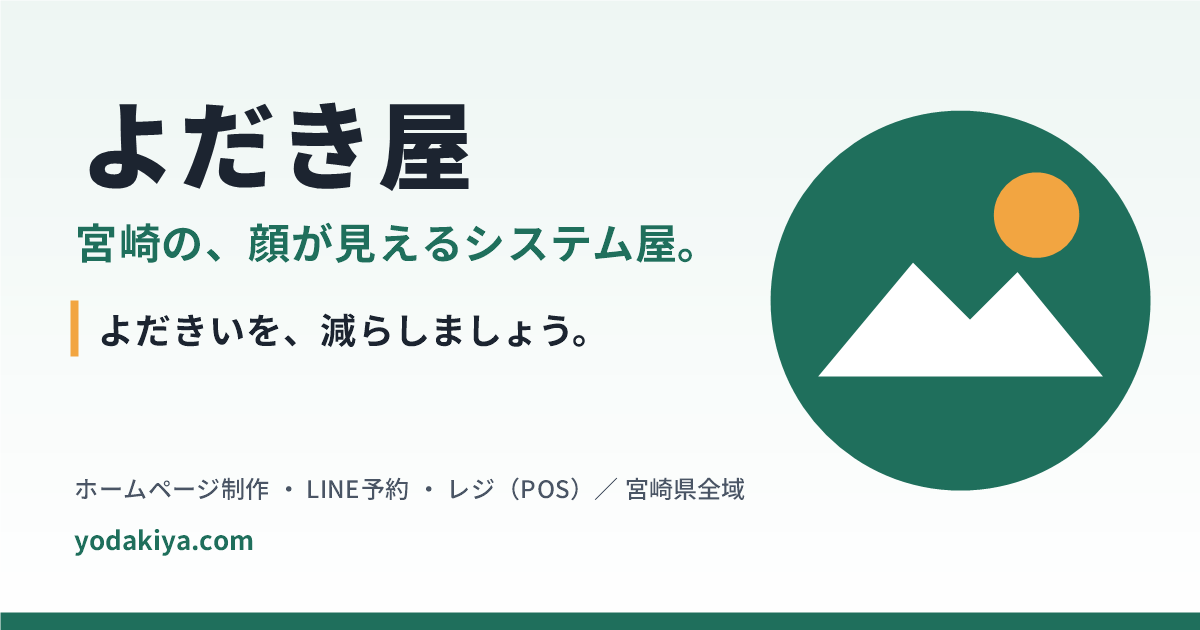
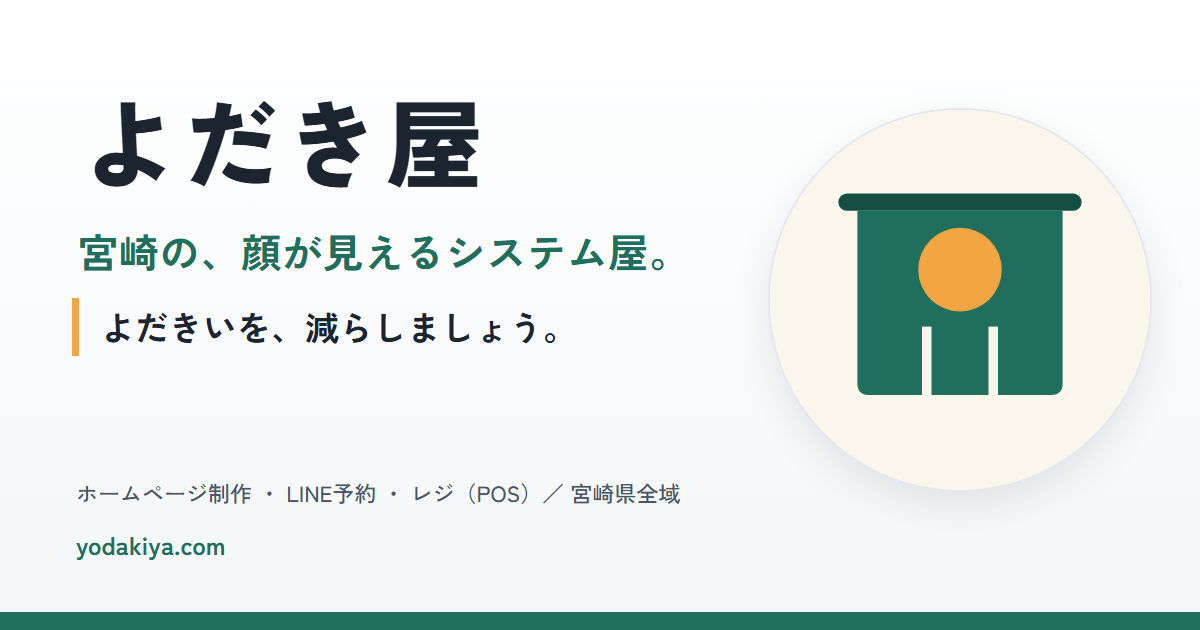
ロゴを「のれんと太陽」に変えた
ヘッダー・フッターのマーク、ファビコン、apple-touch-icon、OGP画像を新しいロゴに差し替えた。
サービスページは tools/build-pages.cjs で再生成。

diff --git a/public/homepage/index.html b/public/homepage/index.html
@@ -31,9 +31,11 @@
   <div class="wrap nav">
     <a class="logo" href="/" aria-label="よだき屋 ホーム">
       <svg class="logo-mark" viewBox="0 0 40 40" aria-hidden="true">
-        <circle cx="20" cy="20" r="19" fill="#1f6f5c"/>
-        <path d="M6 27 L15 16 L21 22 L26 17 L34 27 Z" fill="#fff" opacity=".95"/>
-        <circle cx="28" cy="11" r="4" fill="#f2a541"/>
+        <circle cx="20" cy="20" r="20" fill="#fbf6ec"/>
+        <rect x="7.2" y="8.8" width="25.6" height="1.8" rx=".9" fill="#154f42"/>
+        <path d="M9.2 10.6H30.8V28.8Q30.8 30 29.6 30H10.4Q9.2 30 9.2 28.8Z" fill="#1f6f5c"/>
+        <rect x="16" y="22.8" width="1" height="7.4" fill="#fbf6ec"/><rect x="23" y="22.8" width="1" height="7.4" fill="#fbf6ec"/>
+        <circle cx="20" cy="16.8" r="4.4" fill="#f2a541"/>
       </svg>
       <span class="logo-text">よだき屋</span>
     </a>
@@ -138,9 +140,11 @@
     <div class="foot">
       <a class="logo" href="/">
         <svg class="logo-mark" viewBox="0 0 40 40" aria-hidden="true">
-          <circle cx="20" cy="20" r="19" fill="#1f6f5c"/>
-          <path d="M6 27 L15 16 L21 22 L26 17 L34 27 Z" fill="#fff" opacity=".95"/>
-          <circle cx="28" cy="11" r="4" fill="#f2a541"/>
+          <circle cx="20" cy="20" r="20" fill="#fbf6ec"/>
+          <rect x="7.2" y="8.8" width="25.6" height="1.8" rx=".9" fill="#154f42"/>
+          <path d="M9.2 10.6H30.8V28.8Q30.8 30 29.6 30H10.4Q9.2 30 9.2 28.8Z" fill="#1f6f5c"/>
+          <rect x="16" y="22.8" width="1" height="7.4" fill="#fbf6ec"/><rect x="23" y="22.8" width="1" height="7.4" fill="#fbf6ec"/>
+          <circle cx="20" cy="16.8" r="4.4" fill="#f2a541"/>
         </svg>
         <span class="logo-text">よだき屋</span>
       </a>

diff --git a/public/index.html b/public/index.html
@@ -32,9 +32,11 @@
   <div class="wrap nav">
     <a class="logo" href="/" aria-label="よだき屋 ホーム">
       <svg class="logo-mark" viewBox="0 0 40 40" aria-hidden="true">
-        <circle cx="20" cy="20" r="19" fill="#1f6f5c"/>
-        <path d="M6 27 L15 16 L21 22 L26 17 L34 27 Z" fill="#fff" opacity=".95"/>
-        <circle cx="28" cy="11" r="4" fill="#f2a541"/>
+        <circle cx="20" cy="20" r="20" fill="#fbf6ec"/>
+        <rect x="7.2" y="8.8" width="25.6" height="1.8" rx=".9" fill="#154f42"/>
+        <path d="M9.2 10.6H30.8V28.8Q30.8 30 29.6 30H10.4Q9.2 30 9.2 28.8Z" fill="#1f6f5c"/>
+        <rect x="16" y="22.8" width="1" height="7.4" fill="#fbf6ec"/><rect x="23" y="22.8" width="1" height="7.4" fill="#fbf6ec"/>
+        <circle cx="20" cy="16.8" r="4.4" fill="#f2a541"/>
       </svg>
       <span class="logo-text">よだき屋</span>
     </a>
@@ -300,9 +302,11 @@
     <div class="foot">
       <a class="logo" href="/">
         <svg class="logo-mark" viewBox="0 0 40 40" aria-hidden="true">
-          <circle cx="20" cy="20" r="19" fill="#1f6f5c"/>
-          <path d="M6 27 L15 16 L21 22 L26 17 L34 27 Z" fill="#fff" opacity=".95"/>
-          <circle cx="28" cy="11" r="4" fill="#f2a541"/>
+          <circle cx="20" cy="20" r="20" fill="#fbf6ec"/>
+          <rect x="7.2" y="8.8" width="25.6" height="1.8" rx=".9" fill="#154f42"/>
+          <path d="M9.2 10.6H30.8V28.8Q30.8 30 29.6 30H10.4Q9.2 30 9.2 28.8Z" fill="#1f6f5c"/>
+          <rect x="16" y="22.8" width="1" height="7.4" fill="#fbf6ec"/><rect x="23" y="22.8" width="1" height="7.4" fill="#fbf6ec"/>
+          <circle cx="20" cy="16.8" r="4.4" fill="#f2a541"/>
         </svg>
         <span class="logo-text">よだき屋</span>
       </a>

diff --git a/public/line-yoyaku/index.html b/public/line-yoyaku/index.html
@@ -31,9 +31,11 @@
   <div class="wrap nav">
     <a class="logo" href="/" aria-label="よだき屋 ホーム">
       <svg class="logo-mark" viewBox="0 0 40 40" aria-hidden="true">
-        <circle cx="20" cy="20" r="19" fill="#1f6f5c"/>
-        <path d="M6 27 L15 16 L21 22 L26 17 L34 27 Z" fill="#fff" opacity=".95"/>
-        <circle cx="28" cy="11" r="4" fill="#f2a541"/>
+        <circle cx="20" cy="20" r="20" fill="#fbf6ec"/>
+        <rect x="7.2" y="8.8" width="25.6" height="1.8" rx=".9" fill="#154f42"/>
+        <path d="M9.2 10.6H30.8V28.8Q30.8 30 29.6 30H10.4Q9.2 30 9.2 28.8Z" fill="#1f6f5c"/>
+        <rect x="16" y="22.8" width="1" height="7.4" fill="#fbf6ec"/><rect x="23" y="22.8" width="1" height="7.4" fill="#fbf6ec"/>
+        <circle cx="20" cy="16.8" r="4.4" fill="#f2a541"/>
       </svg>
       <span class="logo-text">よだき屋</span>
     </a>
@@ -122,9 +124,11 @@
     <div class="foot">
       <a class="logo" href="/">
         <svg class="logo-mark" viewBox="0 0 40 40" aria-hidden="true">
-          <circle cx="20" cy="20" r="19" fill="#1f6f5c"/>
-          <path d="M6 27 L15 16 L21 22 L26 17 L34 27 Z" fill="#fff" opacity=".95"/>
-          <circle cx="28" cy="11" r="4" fill="#f2a541"/>
+          <circle cx="20" cy="20" r="20" fill="#fbf6ec"/>
+          <rect x="7.2" y="8.8" width="25.6" height="1.8" rx=".9" fill="#154f42"/>
+          <path d="M9.2 10.6H30.8V28.8Q30.8 30 29.6 30H10.4Q9.2 30 9.2 28.8Z" fill="#1f6f5c"/>
+          <rect x="16" y="22.8" width="1" height="7.4" fill="#fbf6ec"/><rect x="23" y="22.8" width="1" height="7.4" fill="#fbf6ec"/>
+          <circle cx="20" cy="16.8" r="4.4" fill="#f2a541"/>
         </svg>
         <span class="logo-text">よだき屋</span>
       </a>

diff --git a/public/pos/index.html b/public/pos/index.html
@@ -31,9 +31,11 @@
   <div class="wrap nav">
     <a class="logo" href="/" aria-label="よだき屋 ホーム">
       <svg class="logo-mark" viewBox="0 0 40 40" aria-hidden="true">
-        <circle cx="20" cy="20" r="19" fill="#1f6f5c"/>
-        <path d="M6 27 L15 16 L21 22 L26 17 L34 27 Z" fill="#fff" opacity=".95"/>
-        <circle cx="28" cy="11" r="4" fill="#f2a541"/>
+        <circle cx="20" cy="20" r="20" fill="#fbf6ec"/>
+        <rect x="7.2" y="8.8" width="25.6" height="1.8" rx=".9" fill="#154f42"/>
+        <path d="M9.2 10.6H30.8V28.8Q30.8 30 29.6 30H10.4Q9.2 30 9.2 28.8Z" fill="#1f6f5c"/>
+        <rect x="16" y="22.8" width="1" height="7.4" fill="#fbf6ec"/><rect x="23" y="22.8" width="1" height="7.4" fill="#fbf6ec"/>
+        <circle cx="20" cy="16.8" r="4.4" fill="#f2a541"/>
       </svg>
       <span class="logo-text">よだき屋</span>
     </a>
@@ -125,9 +127,11 @@
     <div class="foot">
       <a class="logo" href="/">
         <svg class="logo-mark" viewBox="0 0 40 40" aria-hidden="true">
-          <circle cx="20" cy="20" r="19" fill="#1f6f5c"/>
-          <path d="M6 27 L15 16 L21 22 L26 17 L34 27 Z" fill="#fff" opacity=".95"/>
-          <circle cx="28" cy="11" r="4" fill="#f2a541"/>
+          <circle cx="20" cy="20" r="20" fill="#fbf6ec"/>
+          <rect x="7.2" y="8.8" width="25.6" height="1.8" rx=".9" fill="#154f42"/>
+          <path d="M9.2 10.6H30.8V28.8Q30.8 30 29.6 30H10.4Q9.2 30 9.2 28.8Z" fill="#1f6f5c"/>
+          <rect x="16" y="22.8" width="1" height="7.4" fill="#fbf6ec"/><rect x="23" y="22.8" width="1" height="7.4" fill="#fbf6ec"/>
+          <circle cx="20" cy="16.8" r="4.4" fill="#f2a541"/>
         </svg>
         <span class="logo-text">よだき屋</span>
       </a>

diff --git a/public/faq/index.html b/public/faq/index.html
@@ -31,9 +31,11 @@
   <div class="wrap nav">
     <a class="logo" href="/" aria-label="よだき屋 ホーム">
       <svg class="logo-mark" viewBox="0 0 40 40" aria-hidden="true">
-        <circle cx="20" cy="20" r="19" fill="#1f6f5c"/>
-        <path d="M6 27 L15 16 L21 22 L26 17 L34 27 Z" fill="#fff" opacity=".95"/>
-        <circle cx="28" cy="11" r="4" fill="#f2a541"/>
+        <circle cx="20" cy="20" r="20" fill="#fbf6ec"/>
+        <rect x="7.2" y="8.8" width="25.6" height="1.8" rx=".9" fill="#154f42"/>
+        <path d="M9.2 10.6H30.8V28.8Q30.8 30 29.6 30H10.4Q9.2 30 9.2 28.8Z" fill="#1f6f5c"/>
+        <rect x="16" y="22.8" width="1" height="7.4" fill="#fbf6ec"/><rect x="23" y="22.8" width="1" height="7.4" fill="#fbf6ec"/>
+        <circle cx="20" cy="16.8" r="4.4" fill="#f2a541"/>
       </svg>
       <span class="logo-text">よだき屋</span>
     </a>
@@ -99,9 +101,11 @@
     <div class="foot">
       <a class="logo" href="/">
         <svg class="logo-mark" viewBox="0 0 40 40" aria-hidden="true">
-          <circle cx="20" cy="20" r="19" fill="#1f6f5c"/>
-          <path d="M6 27 L15 16 L21 22 L26 17 L34 27 Z" fill="#fff" opacity=".95"/>
-          <circle cx="28" cy="11" r="4" fill="#f2a541"/>
+          <circle cx="20" cy="20" r="20" fill="#fbf6ec"/>
+          <rect x="7.2" y="8.8" width="25.6" height="1.8" rx=".9" fill="#154f42"/>
+          <path d="M9.2 10.6H30.8V28.8Q30.8 30 29.6 30H10.4Q9.2 30 9.2 28.8Z" fill="#1f6f5c"/>
+          <rect x="16" y="22.8" width="1" height="7.4" fill="#fbf6ec"/><rect x="23" y="22.8" width="1" height="7.4" fill="#fbf6ec"/>
+          <circle cx="20" cy="16.8" r="4.4" fill="#f2a541"/>
         </svg>
         <span class="logo-text">よだき屋</span>
       </a>
